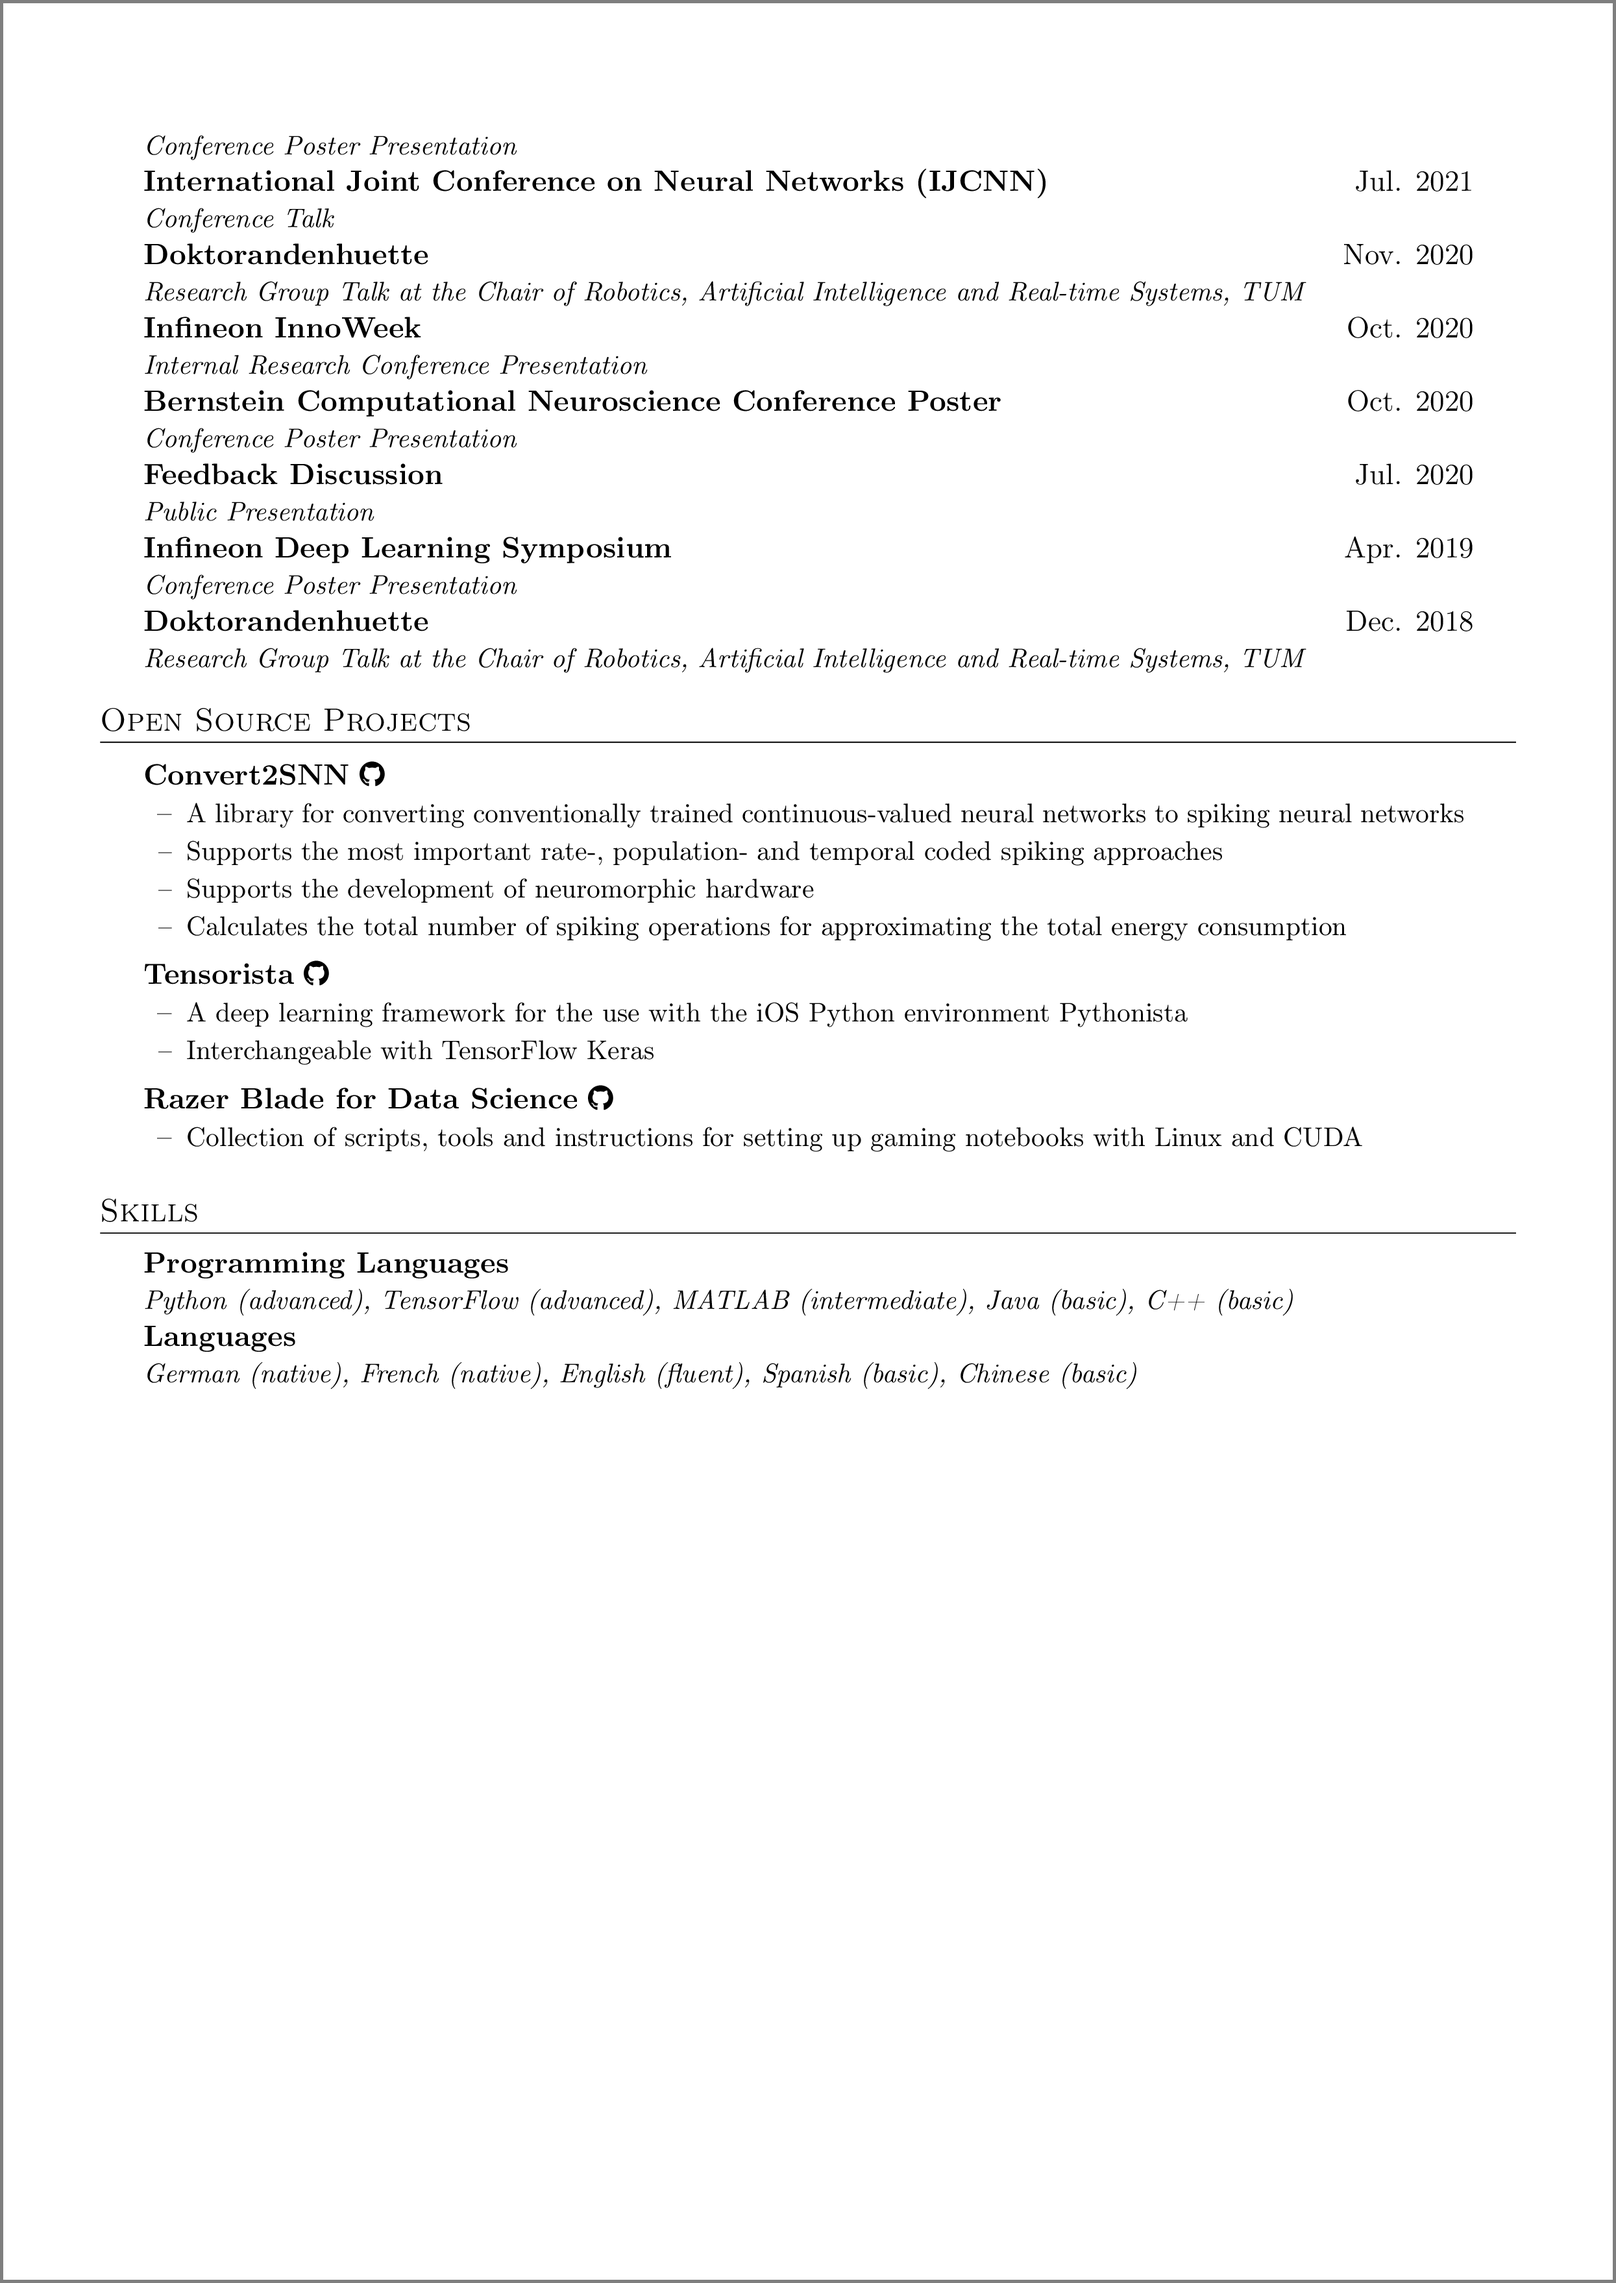
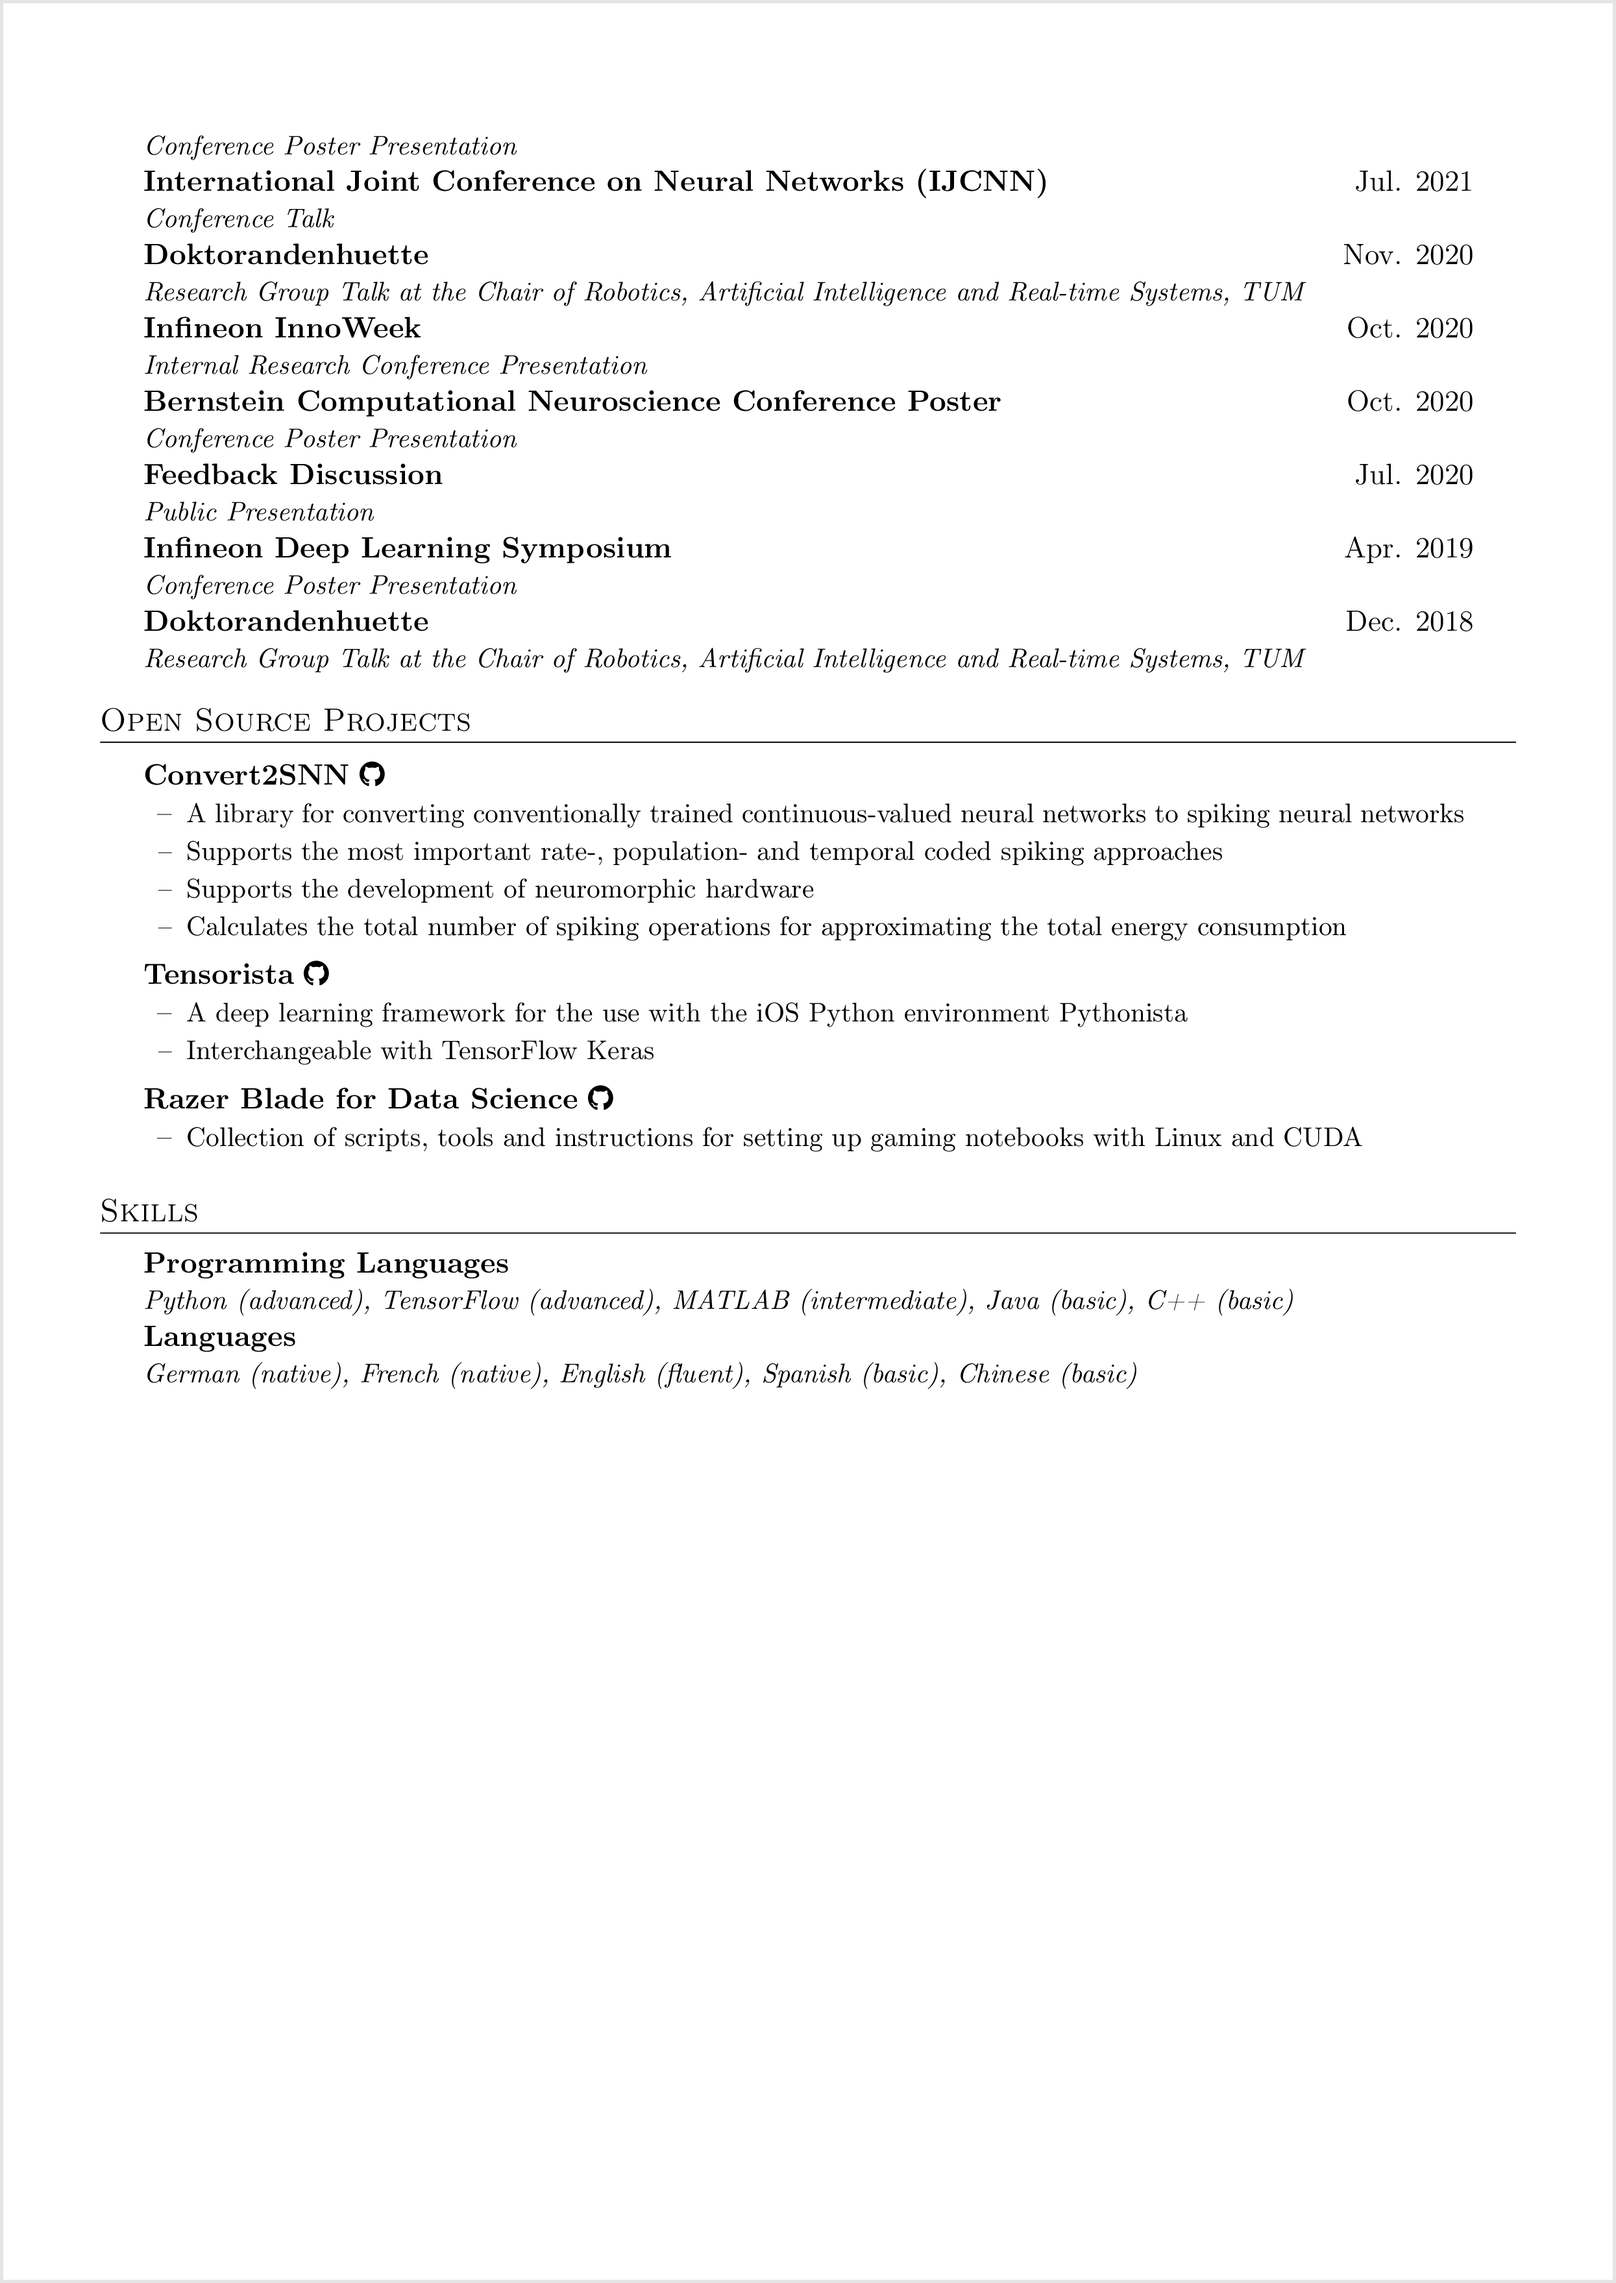
updates imgs

Changed region(s): [[0.0, 0.0, 1.0, 1.0], [0.0, 0.0, 0.0309, 0.031]]

diff --git a/README.md b/README.md
@@ -10,4 +10,4 @@ My curriculum vitae (CV) written using LaTeX.
     <img alt="Screenshot" src="https://raw.githubusercontent.com/EtienneMueller/CV/main/img/cv-2.png" width="800">
 </p>
 
-The compiled .pdf can be converted to .png using ImageMagick by running ```convert -density 300 -alpha remove -bordercolor gray -border 5 cv.pdf img/cv.png```
+The compiled .pdf can be converted to .png using ImageMagick by running ```convert -density 300 -alpha remove -bordercolor gray90 -border 5 cv.pdf img/cv.png```
